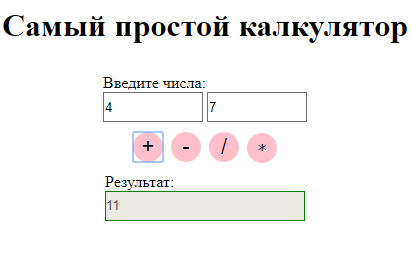
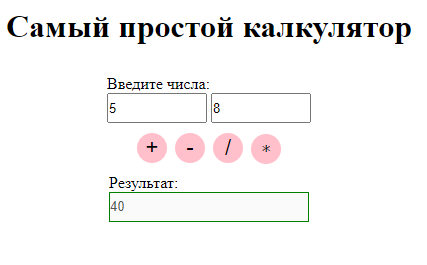
readMe

Changed region(s): [[0.233, 0.2717, 0.7573, 0.8453], [0.0, 0.0302, 0.9903, 0.1811]]

diff --git a/index.html b/index.html
@@ -13,8 +13,8 @@
 			<div class="calc">
 				<div class="main_inputs">
 					Введите числа: <br>
-					<input type="text" id="input1" value = 0>
-					<input type="text" id="input2" value = 0>
+					<input id="input1" value = 0 type="number">
+					<input id="input2" value = 0 type="number">
 				</div>
 				<div class="buttons">
 					<button id="plus">+</button>

diff --git a/style.css b/style.css
@@ -35,7 +35,12 @@ h1 {
   background-color: pink;
   font-size: 22px;
   margin: 0 2px 10px 2px;
+  cursor: pointer;
 }
+.buttons button:active, .buttons button:focus {
+  outline: none;
+}
+
 .resul input{
   width: 200px;
   height: 30px;
